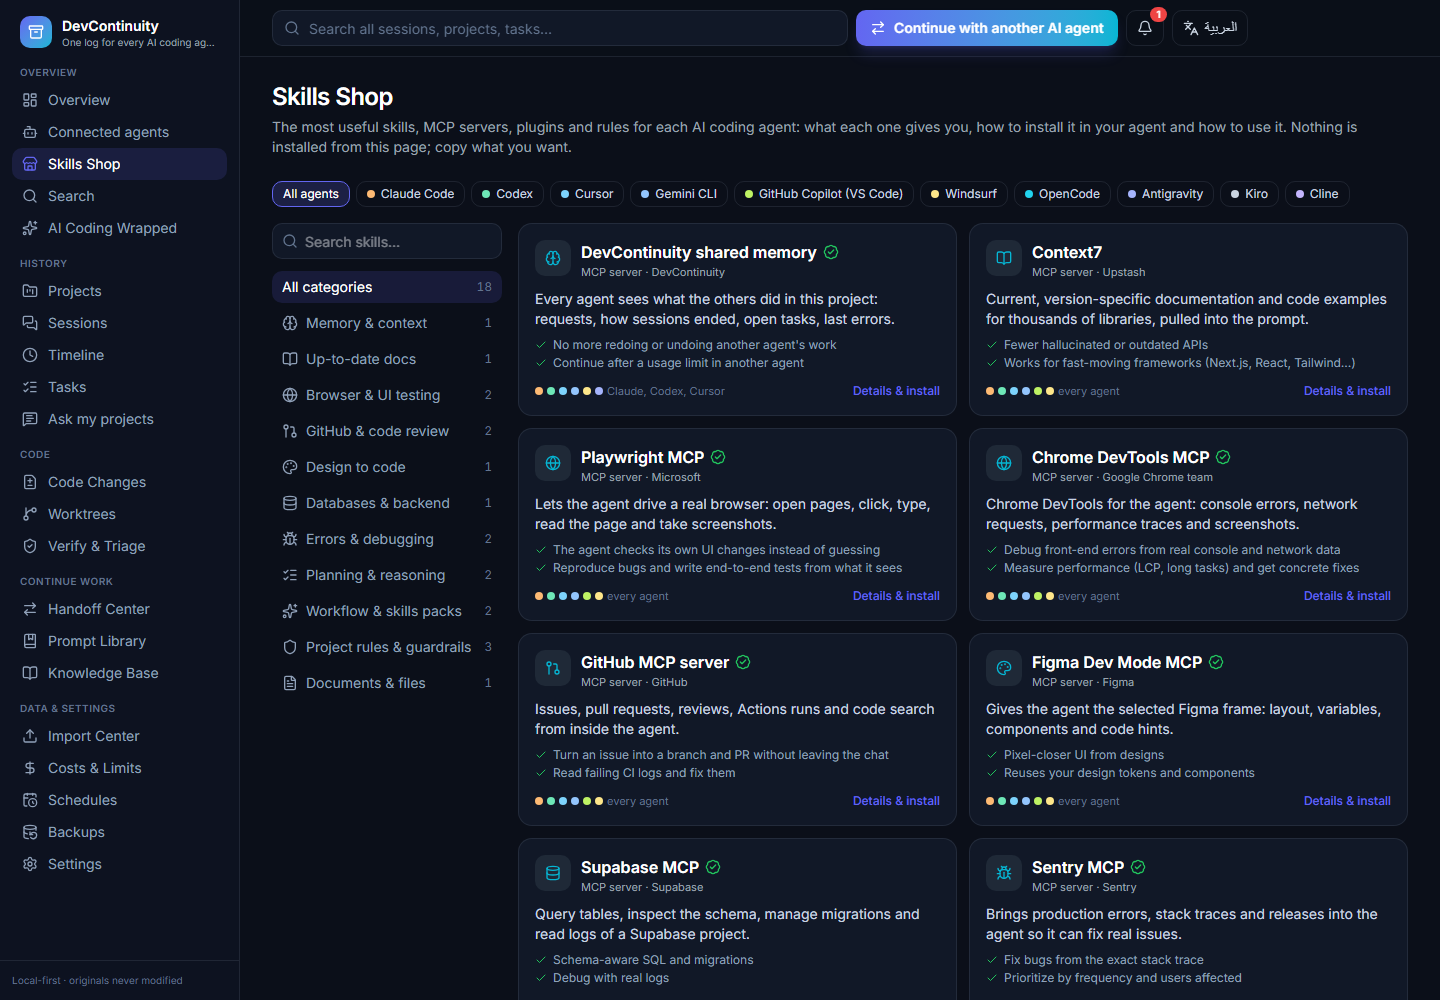
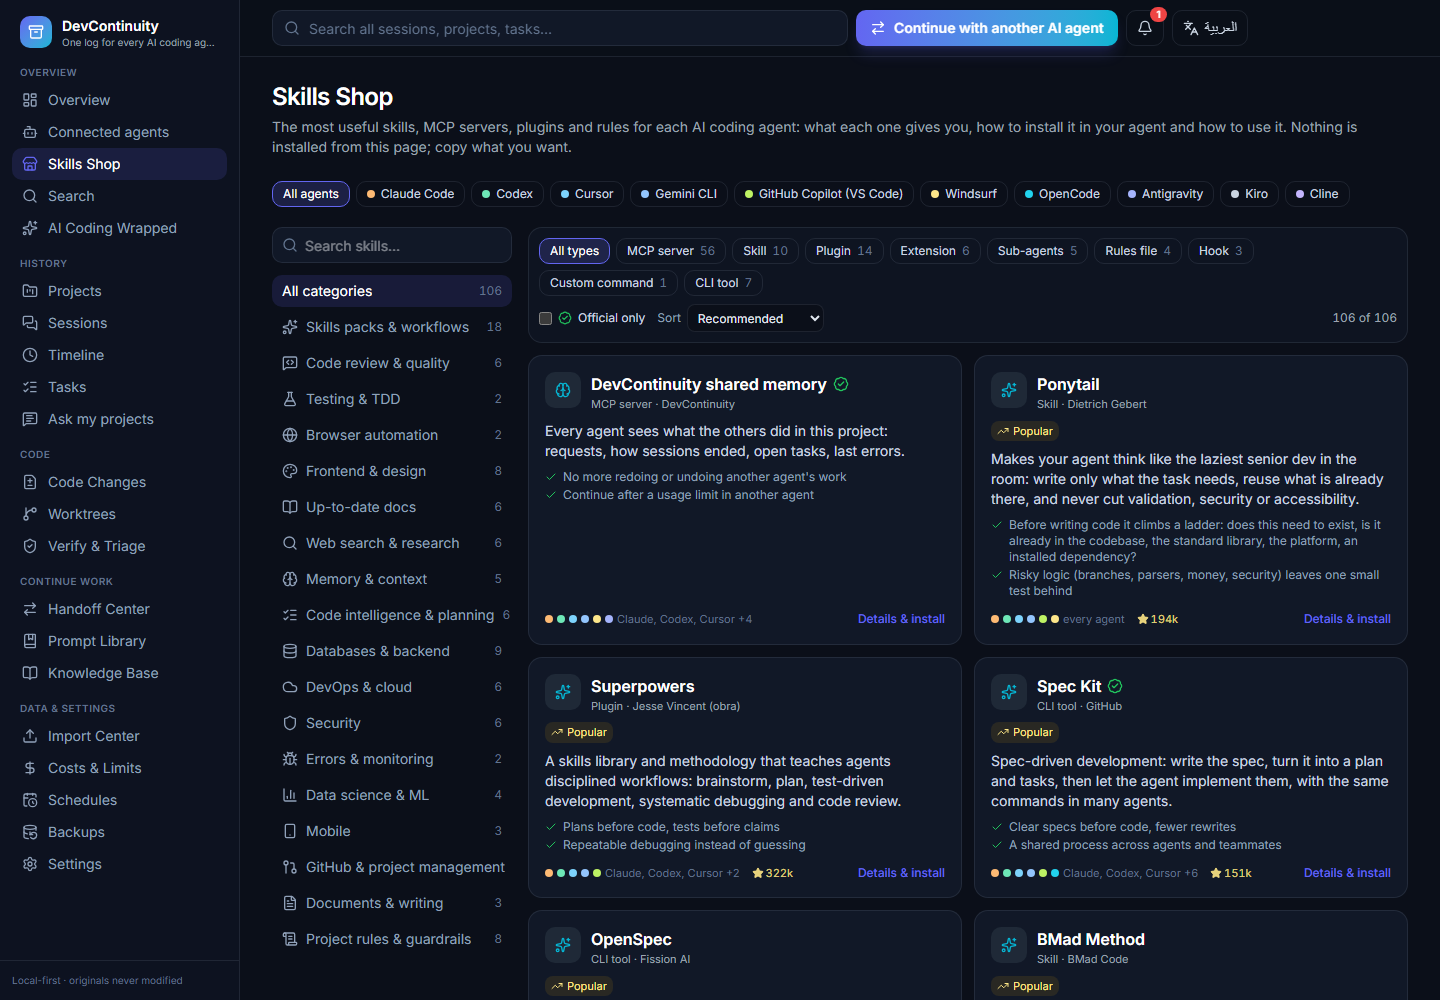
Docs: Skills Shop screenshot, README, CHANGELOG and roadmap
- Refreshed docs/images/skills.png from the demo workspace.
- ONLY=skills npm run demo:screenshots regenerates a single image.
- The Settings translation good-first-issue is done; removed from the roadmap.

diff --git a/docs/ROADMAP.md b/docs/ROADMAP.md
@@ -33,11 +33,10 @@ Small, well-scoped tasks with tests to copy from. Each has a ready `gh` command 
 
 | # | Task | Where to start |
 | --- | --- | --- |
-| 1 | Add an agent to the Skills Shop catalog (pick one MCP server you use) | `src/lib/skills-catalog.ts`, `tests/skills-shop.test.ts` |
-| 2 | Translate the Settings sub-panels (AI providers, phone access) into Arabic | `src/components/dc/settings-ui.tsx`, `src/lib/i18n-pages.ts` |
-| 3 | Show the Wrapped share card in the page as a preview before download | `src/components/dc/wrapped-share.tsx` |
-| 4 | "Copy as Markdown" for a session timeline | `src/components/dc/session-timeline.tsx` |
-| 5 | Add a fixture test for an Aider history with `/undo` and `/run` | `tests/agents.test.ts`, `src/server/adapters/aider.ts` |
+| 1 | Add a verified entry to the Skills Shop catalog (pick one MCP server or skill you use) | `src/lib/skills/<category>.ts`, `tests/skills-shop.test.ts` |
+| 2 | Show the Wrapped share card in the page as a preview before download | `src/components/dc/wrapped-share.tsx` |
+| 3 | "Copy as Markdown" for a session timeline | `src/components/dc/session-timeline.tsx` |
+| 4 | Add a fixture test for an Aider history with `/undo` and `/run` | `tests/agents.test.ts`, `src/server/adapters/aider.ts` |
 | 6 | Linux terminal: support `wezterm` and `foot` in the launcher | `src/server/agents/launcher.ts` (`POSIX_TERMINALS`) |
 | 7 | Keyboard shortcut `/` to focus the search box | `src/components/dc/shell.tsx` |
 
@@ -62,8 +61,7 @@ gh issue create --label roadmap --title "Price token-only agents" --body "Agents
 ```
 
 ```bash
-gh issue create --label "good first issue" --title "Skills Shop: add another MCP server" --body "Add one entry to src/lib/skills-catalog.ts (English + Arabic text, an official URL) and run npm test; tests/skills-shop.test.ts checks every entry."
-gh issue create --label "good first issue" --title "Arabic: translate the Settings sub-panels" --body "Move the strings in src/components/dc/settings-ui.tsx into src/lib/i18n-pages.ts (en + ar) and use useT(). Check with npm run demo:rtl."
+gh issue create --label "good first issue" --title "Skills Shop: add another MCP server" --body "Add one entry to the matching file in src/lib/skills/ (English + Arabic text, install steps copied from the item's own README or docs, an official URL) and run npm test; tests/skills-shop.test.ts checks every entry."
 gh issue create --label "good first issue" --title "Wrapped: preview the share card before downloading" --body "Draw the card (drawWrapped in src/components/dc/wrapped-share.tsx) into a visible canvas on /wrapped."
 gh issue create --label "good first issue" --title "Copy a session timeline as Markdown" --body "Add a button to the session page that copies the visible timeline as Markdown (redacted text only)."
 gh issue create --label "good first issue" --title "Aider: fixture test for /undo and /run" --body "Extend the Aider fixture in tests/agents.test.ts with /undo and /run output and make sure the adapter records them sensibly."

diff --git a/CHANGELOG.md b/CHANGELOG.md
@@ -35,8 +35,20 @@ The first public release.
   agent, with a 1200×630 share image drawn in the browser, in English or Arabic.
 - **Compare agents:** completion, interruption and error rates, tools per prompt, files per session
   and cost per finished session, with "not enough data" for small samples.
-- **Skills Shop** (`/skills`): a curated catalog of the best MCP servers, skills, plugins, rules and
-  extensions per agent, by category, with benefits, install steps for ten agents and usage examples.
+- **Skills Shop** (`/skills`): a curated catalog of 107 skills, MCP servers, plugins, extensions,
+  sub-agent packs, rules and tools for ten agents, in 18 categories (skills packs, code review,
+  testing, browser automation, frontend, docs, web search, memory, code intelligence, databases,
+  DevOps, security, monitoring, data science, mobile, project management, documents, rules), with
+  benefits, install steps for each agent, usage examples and top picks per agent. Includes Ponytail,
+  Superpowers, Spec Kit, OpenSpec, Anthropic's official plugins and skills, and official MCP servers
+  from GitHub, Microsoft, Google, AWS, Cloudflare, Vercel, Stripe and others; every install command
+  was checked against the item's own repository or docs. Filter by agent, category and type, show
+  official items only, sort by GitHub stars or name, and spot popular items (10k+ stars). Skills
+  repositories install in every agent through the open `npx skills` CLI. Still copy-only.
+- Arabic for the Settings panels (AI providers, routes, budget, prices, agent programs, AI
+  organization limits and phone access), with commands and environment variables kept
+  left-to-right; copy boxes in the Skills Shop no longer cover the start of a command in Arabic, and
+  tab bars no longer show a stray scrollbar.
 - **More agents:** Aider, ChatGPT and Claude.ai data exports, Zed (experimental), and live-capture
   recipes for Qwen Code, Copilot CLI and Kiro (experimental).
 - Claude Code sessions now record token usage.

diff --git a/README.md b/README.md
@@ -179,7 +179,7 @@ The UI is available in English and Arabic (right-to-left) and works on phones.
 <table>
   <tr>
     <td width="50%"><img src="docs/images/wrapped.png" alt="AI Coding Wrapped: a month with every agent in numbers" /><br /><sub><b>AI Coding Wrapped:</b> sessions, prompts, tool calls, tokens and outcomes per agent, with a shareable image.</sub></td>
-    <td width="50%"><img src="docs/images/skills.png" alt="Skills Shop: best MCP servers and skills per agent" /><br /><sub><b>Skills Shop:</b> the most useful skills and MCP servers per agent, by category, with install steps for each agent.</sub></td>
+    <td width="50%"><img src="docs/images/skills.png" alt="Skills Shop: best MCP servers and skills per agent" /><br /><sub><b>Skills Shop:</b> 100+ verified skills, MCP servers, plugins and rules (Ponytail, Superpowers, Spec Kit, official MCP servers…) in 18 categories, filtered by agent and type, with install steps for each of ten agents.</sub></td>
   </tr>
   <tr>
     <td colspan="2"><img src="docs/images/compare.png" alt="Agent comparison table" /><br /><sub><b>Compare agents:</b> honest "not enough data" instead of ranking small samples.</sub></td>
